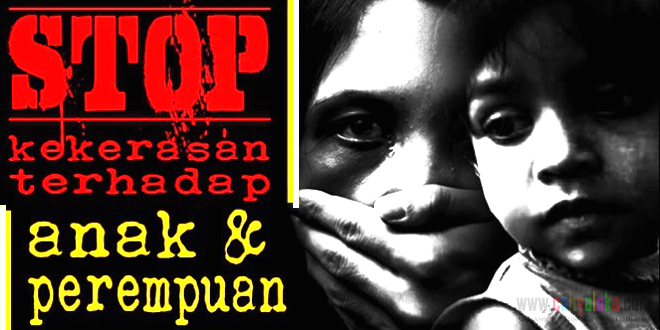
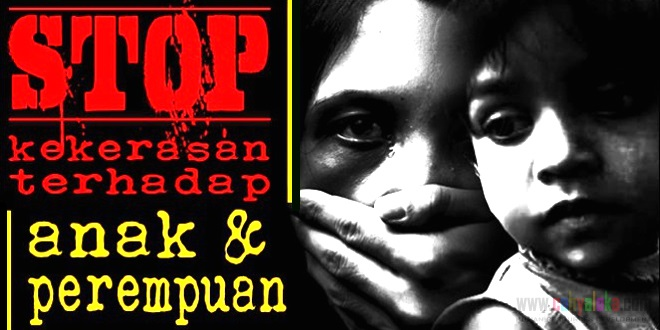
Edit gambar

diff --git a/homepage.html b/homepage.html
@@ -44,7 +44,7 @@ footer {
 &nbsp;&nbsp;&nbsp;&nbsp;&nbsp;&nbsp;&nbsp;
 </h3>
 </div>
-<div style="text-align: center;">
+<div style="text-align: center;background-color:black;padding: 5px;margin: 5px">
   <img alt="kekerasan" src="kekerasan.jpg" title="Kekerasan" ;"></div>
 <div style="background-color: #DCDCDC ; padding:5px; margin:5px; text-align: justify; font-family: 'Gill Sans', 'Gill Sans MT', Calibri, 'Trebuchet MS', sans-serif;" >
  <p style="text-align: center;"><i><strong>"Tugas maha besar generasi kita adalah mewariskan toleransi, bukan kekerasan"</strong></i></p>
@@ -54,8 +54,8 @@ footer {
   Hingga tanggal 6 Maret 2020, tercatat ada sebanyak 431.471 kasus kekerasan terhadapa perempuan.  
   “Berdasarkan data SIMFONI PPA, pada 1 Januari – 19 Juni 2020 telah terjadi  3.087 kasus kekerasan terhadap anak, diantaranya 852 kekerasan fisik, 768 psikis, dan 1.848 kasus kekerasan seksual. 
   Angka ini tergolong tinggi.
-  Oleh karena itu, website dibuat dengan harapan agar dapat membantu para korban dan dapat menurunkan jumlah kasus yang terjadi di Indonesia.</p></div>
-  <p><h3 style="text-align: center;">Latar Belakang</h3></p>
+  Oleh karena itu, website dibuat dengan harapan agar dapat membantu para korban dan dapat menurunkan jumlah kasus yang terjadi di Indonesia.</p>
+  <h3 style="text-align: center;">Latar Belakang</h3>
   <div style="background-color: #DCDCDC ; padding:5px; margin:5px; text-align: justify; font-family: 'Gill Sans', 'Gill Sans MT', Calibri, 'Trebuchet MS', sans-serif;" >
     <p style="text-align: justify;">Data ini didapat dari kasus kekerasan pada perempuan dan anak yang ditangani oleh P2TP2A (UPT Pusat Pelayanan Terpadu Pemberdayaan Perempuan dan Anak)
       pada tahun 2019. Jumlah kekerasan terhadap perempuan dan anak berdasarkan tempat kejadian kasus dapat dilihat pada grafik berikut</p>
@@ -66,10 +66,9 @@ footer {
     <p style="text-align: justify;">Berdasarkan statistik tersebut dapat dikatakan bahwa tingkat kekesaran
       pada anak dan wanita di Indonesia masih tinggi, sehingga untuk itu perlu semua pihak untuk berkontribusi menekan angka kekerasan pada wanita dan anak.</p>
     <p>1. Sumber : <i>http://statistik.jakarta.go.id/kasus-kekerasan-terhadap-perempuan-dan-anak-yang-ditangani-oleh-p2tp2a/</i></p>
-    <p>2. Sumber : <i>UPT P2TP2A Provinsi DKI Jakarta</i></p> </div>
-    <br>
-    <br>
-    <div style="background-color: #DCDCDC ; padding:5px; margin:5px; text-align: justify; font-family: 'Gill Sans', 'Gill Sans MT', Calibri, 'Trebuchet MS', sans-serif; ">
+    <p>2. Sumber : <i>UPT P2TP2A Provinsi DKI Jakarta</i></p>
+	<h4 style = "text-align: center;"> Tentang Kami</h4>
+	<p> Kami adalah sekelompok mahasiswa dari Institut Teknologi Bandung yang bertujuan untuk mengurangi dan mencegah kasus kekerasan terhadap wanita dan anak di Indonesia. Nama-nama kami adalah:
       <ol>
         <li>Girvin Junod - 16519010</li>
         <li>Muhammad Bintang Pananjung - 16519159</li>
@@ -84,7 +83,8 @@ footer {
         <li>Nathaniel Angelius Tjahyadi - 16519256</li>
         <li>Hanif Arroisi Mukhlis - 16519507</li>
     </ol>
-    </div>
+	<p> Kami bisa dikontak melalui media yang tertera di bagian bawah website.</p>
+    </div></div>
 <footer style="text-align: left;">
 <strong>Contact Us :</strong><br>
 Email : stop@kekerasan.co.id<br>
